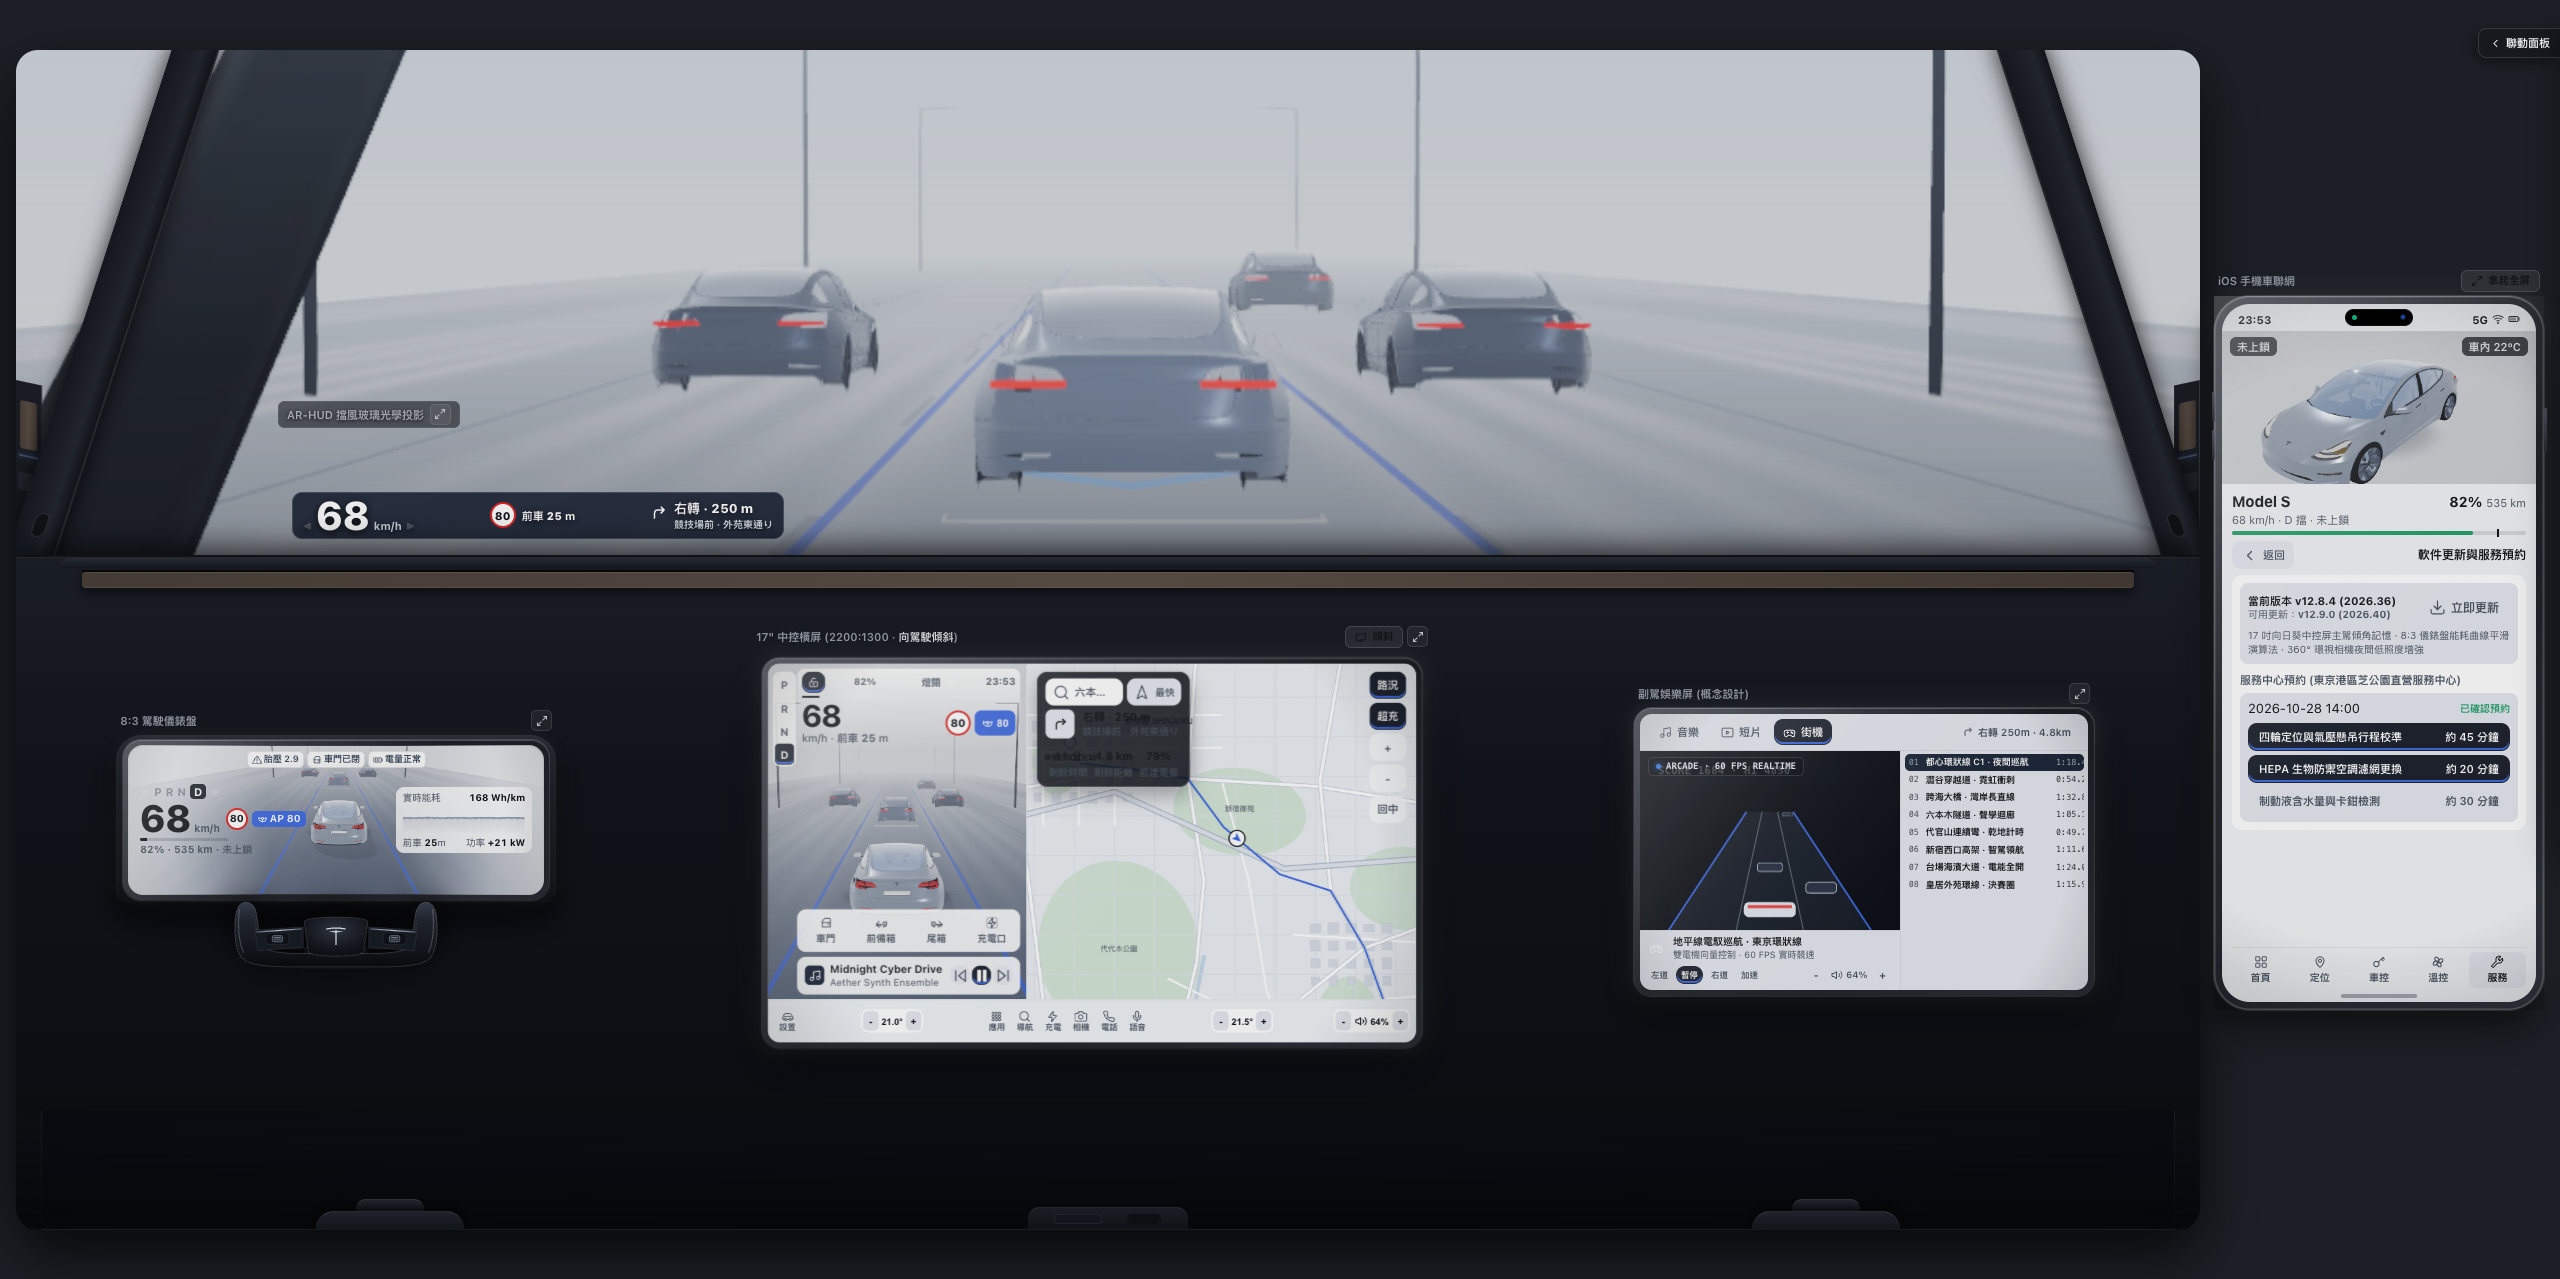
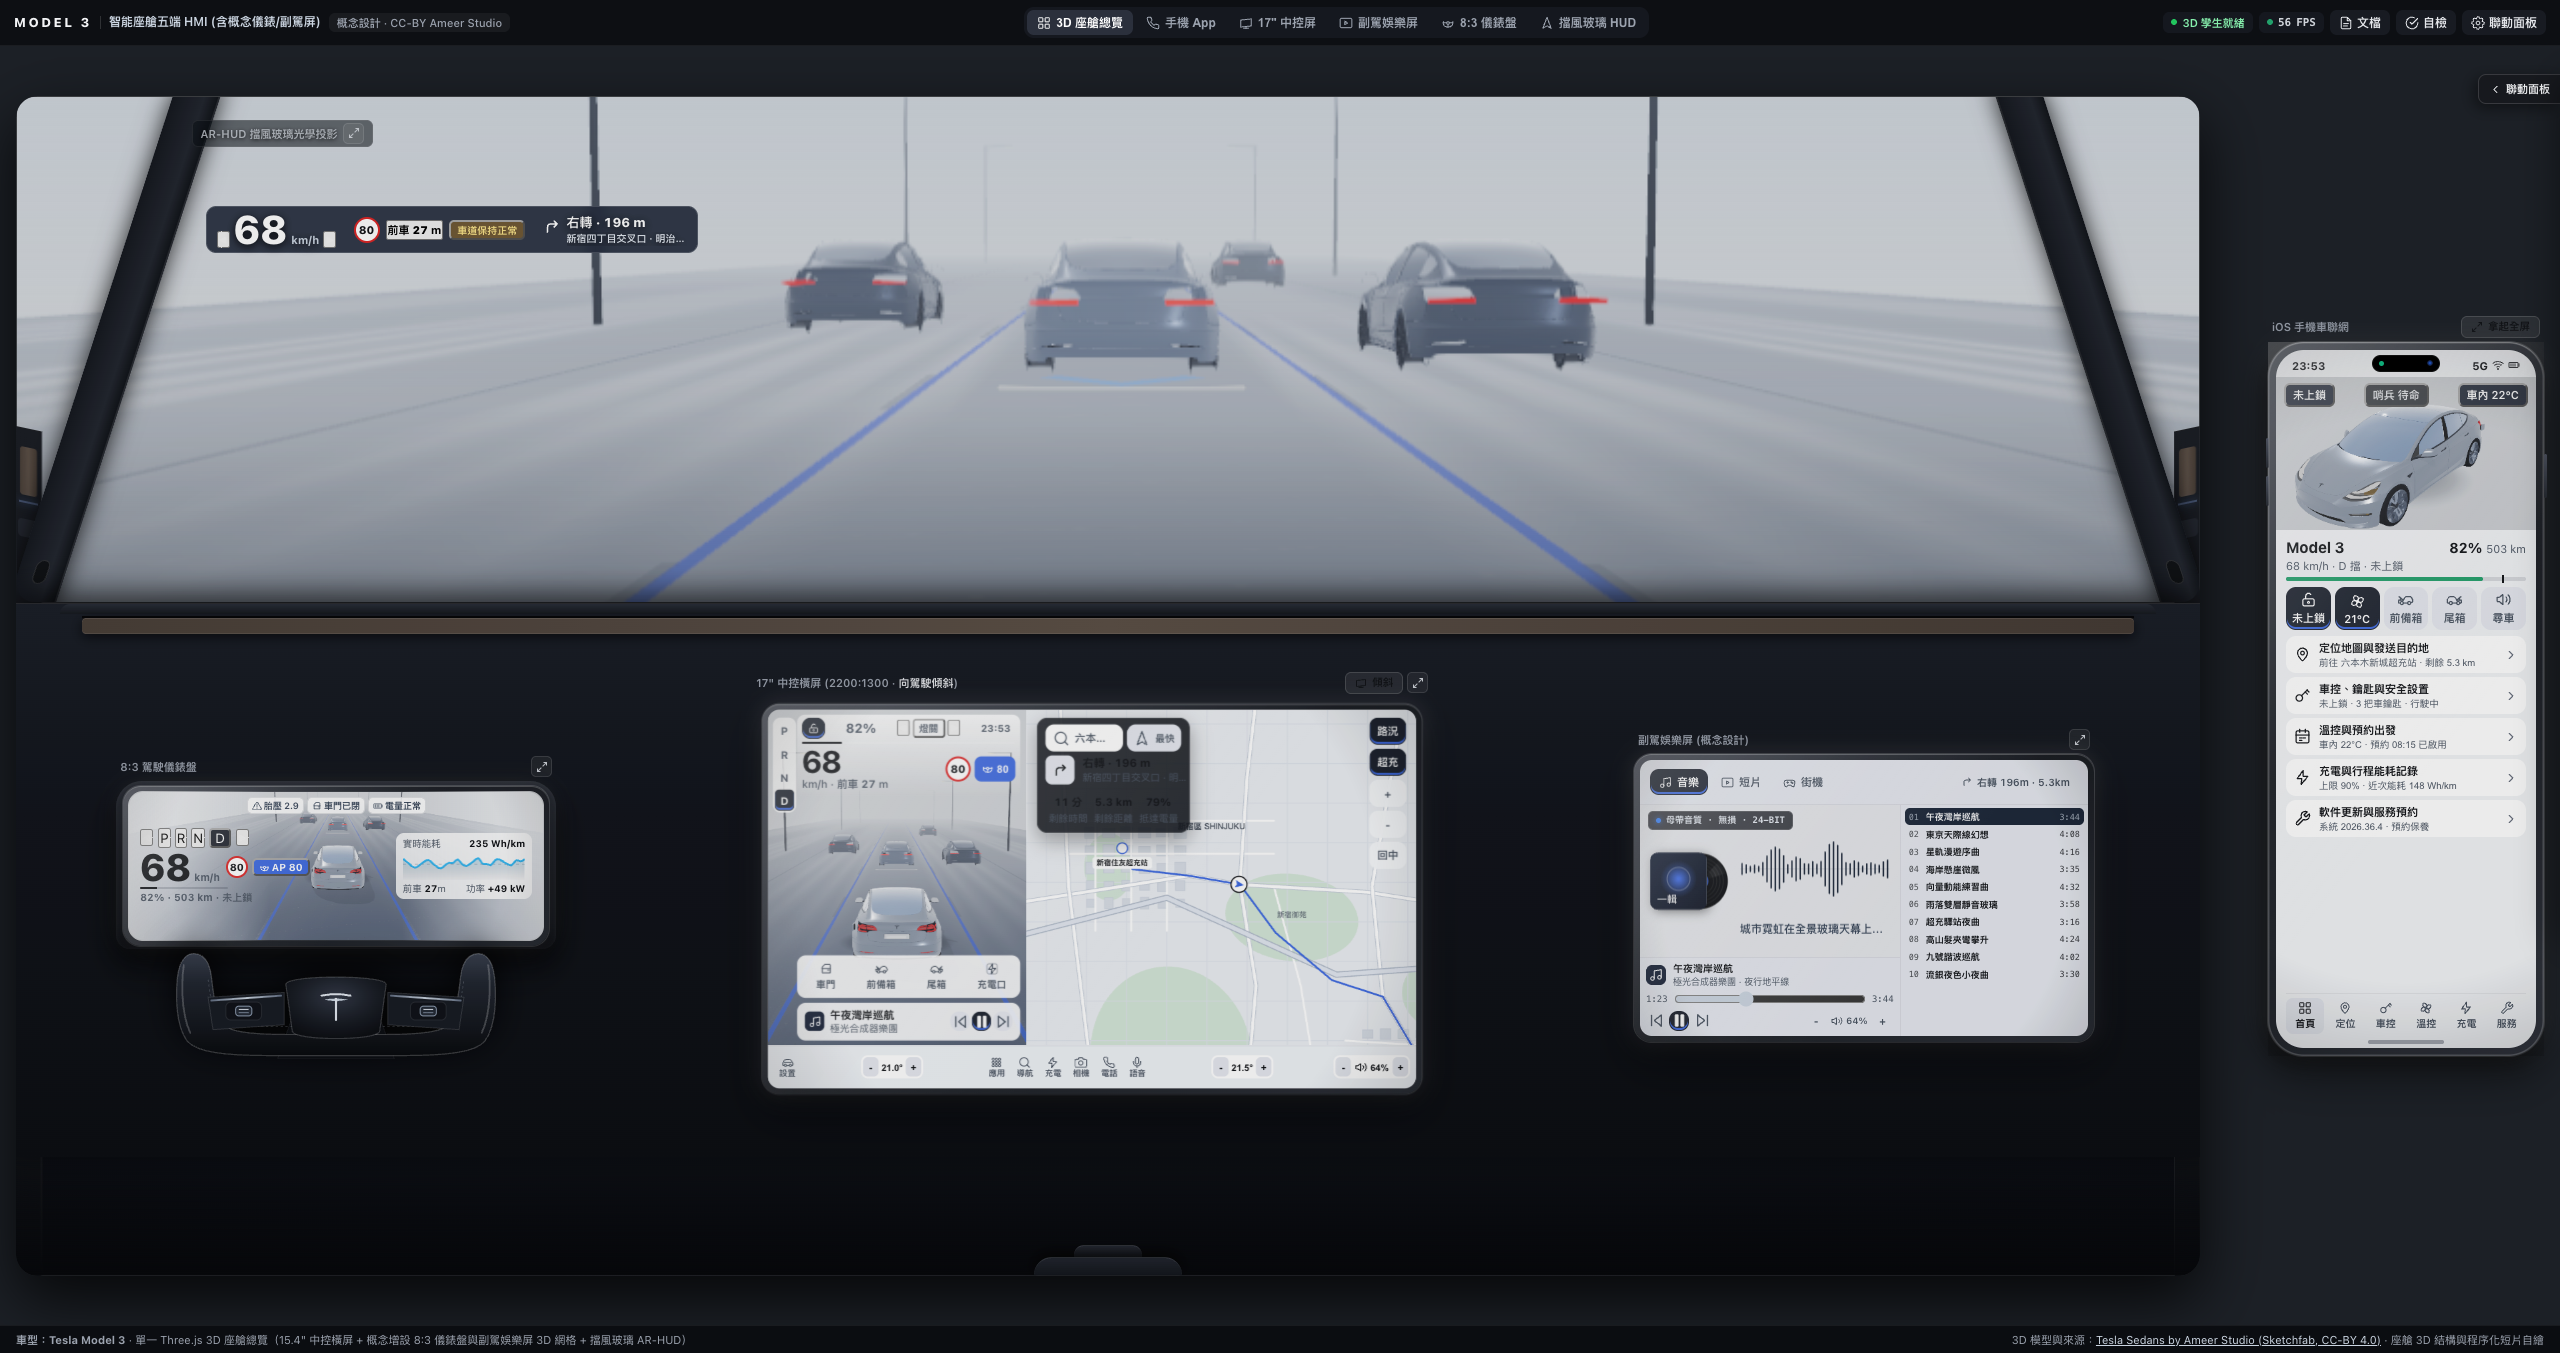
fix: 彻底移除挡风玻璃中遮挡道路视野的突兀3D黑横梁与支柱(cockpitInteriorGroup)，恢复纯净通透的真实座舱前向视野

diff --git a/src/engine/SceneEngine.js b/src/engine/SceneEngine.js
@@ -390,6 +390,7 @@ export class SceneEngine {
   buildCockpitInterior3D() {
     this.cockpitInteriorGroup = new THREE.Group();
     this.cockpitInteriorGroup.position.set(0, 0, 1.35);
+    this.cockpitInteriorGroup.visible = false;
     this.scene.add(this.cockpitInteriorGroup);
 
     const alcantaraMat = new THREE.MeshStandardMaterial({ color: 0x191d24, roughness: 0.78, metalness: 0.08 });
@@ -1890,7 +1891,7 @@ export class SceneEngine {
         const isOutTheWindow = viewId === 'hud' || viewId === 'windshield';
 
         if (this.cockpitInteriorGroup) {
-          this.cockpitInteriorGroup.visible = viewId === 'windshield';
+          this.cockpitInteriorGroup.visible = false;
         }
         if (this.roadGroup) {
           this.roadGroup.visible = viewId !== 'mobile';
